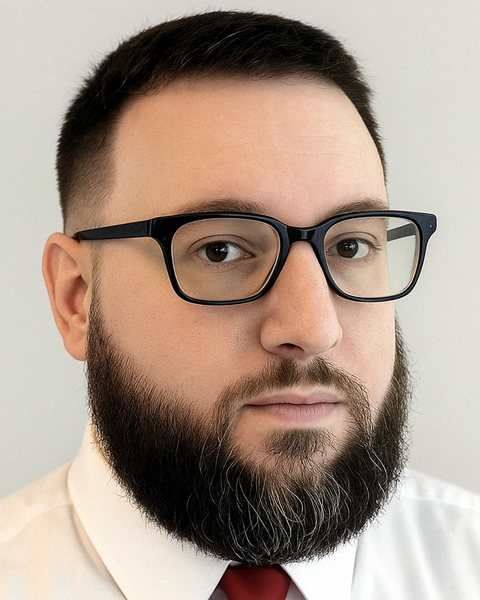
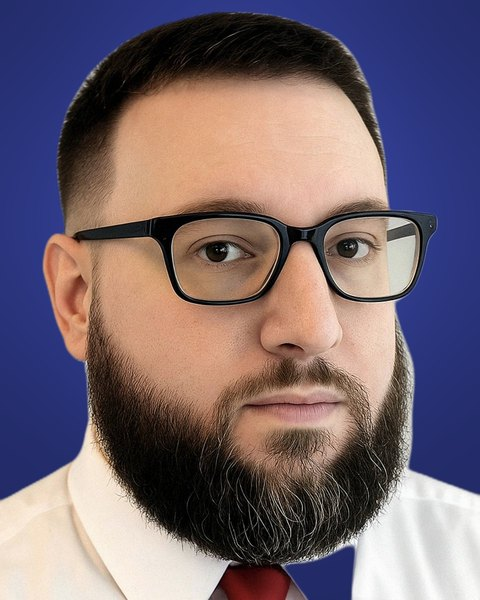
Readability, section bands, consistent blues, new portrait
- Brighter muted/faint text and heavier body weight for dark mode
- Tighter type scale; nothing below 12px; 62ch line measure
- Alternate canvas/band section backgrounds for subtle separation
- Step numbers as cobalt badges matching the logo tile
- Portrait cut out of its gray box onto a deep cobalt backdrop
- Update DESIGN.md tokens, type table and components

Claude-Session: https://claude.ai/code/session_019WZUXEZ8qBTe2kG3M1TBCv

Changed region(s): [[0.0, 0.0, 1.0, 0.84], [0.5938, 0.9, 0.75, 1.0]]

diff --git a/assets/css/site.css b/assets/css/site.css
@@ -2,16 +2,21 @@
 @font-face { font-family: Archivo; src:url('../fonts/archivo-latin-variable.woff2') format('woff2'); font-style:normal; font-weight:100 900; font-display:swap; }
 :root {
   color-scheme:dark;
-  --canvas:#171721; --card:#1e1e2a; --raised:#272735;
-  --text:#ededf3; --muted:#c3c3cc; --faint:#9696a3;
-  --cobalt:#5266eb; --cobalt-text:#8f9cf5;
-  --radius-sm:4px; --radius-card:12px; --radius-pill:32px;
+  /* Surfaces: canvas and band alternate by section; cards sit one step above their section. */
+  --canvas:#15151d; --band:#1c1c27;
+  --card:#1f1f2b; --card-on-band:#262633;
+  /* Text: all pass WCAG AA on every surface; muted and faint brightened for dark-mode legibility. */
+  --text:#f2f2f6; --muted:#d0d0d9; --faint:#a9a9b7;
+  /* One blue family, matching the logo: tile cobalt for fills, logo "PUSHBACK" tint for text. */
+  --cobalt:#5266eb; --cobalt-text:#8f9cf5; --cobalt-deep:#222a66;
+  --radius-sm:4px; --radius-badge:8px; --radius-card:14px; --radius-photo:24px; --radius-pill:32px;
   --max:1200px; --gutter:clamp(24px,5vw,64px);
-  --section:clamp(72px,8vw,112px); --card-pad:32px; --gap:12px;
+  --section:clamp(72px,8vw,112px); --card-pad:32px; --gap:14px;
+  --measure:62ch;
 }
 *,*::before,*::after {box-sizing:border-box}
 html{scroll-behavior:smooth;-webkit-text-size-adjust:100%;background:var(--canvas)}
-body{margin:0;background:var(--canvas);color:var(--text);font:400 18px/1.58 'Archivo','Helvetica Neue',Arial,sans-serif;-webkit-font-smoothing:antialiased}
+body{margin:0;background:var(--canvas);color:var(--text);font:430 18px/1.6 'Archivo','Helvetica Neue',Arial,sans-serif;-webkit-font-smoothing:antialiased}
 a{color:var(--cobalt-text);text-decoration-thickness:1px;text-underline-offset:4px}
 img{display:block;max-width:100%}
 :focus-visible{outline:2px solid var(--cobalt-text);outline-offset:4px;border-radius:var(--radius-sm)}
@@ -19,99 +24,104 @@ img{display:block;max-width:100%}
 .skip-link{position:absolute;left:-100vw;top:0;z-index:5;background:var(--cobalt);color:#fff;padding:12px 18px;border-radius:var(--radius-pill)}
 .skip-link:focus{left:12px;top:12px}
 
+/* Header */
 .header-inner{height:84px;display:flex;align-items:center;justify-content:space-between;gap:24px}
 .wordmark{display:block;line-height:0;flex:0 0 auto}
 .wordmark img{height:36px;width:auto}
-.principle{font-size:14px;font-weight:500;letter-spacing:.02em;margin:0;color:var(--muted)}
+.principle{font-size:15px;font-weight:500;letter-spacing:.01em;margin:0;color:var(--muted)}
 .header-principle{text-align:right}
 
-.hero{overflow:hidden}
-.hero-grid{display:grid;grid-template-columns:minmax(0,1.25fr) minmax(290px,.82fr);gap:clamp(30px,6vw,90px);align-items:center;padding-top:clamp(40px,5vw,72px);padding-bottom:var(--section)}
-h1{font-size:clamp(52px,5.4vw,80px);line-height:1.02;letter-spacing:-.05em;font-weight:520;max-width:750px;margin:0 0 32px}
-h1 em{font-style:normal;color:var(--cobalt-text)}
-.hero-lede{max-width:600px;font-size:clamp(19px,1.5vw,21px);line-height:1.55;letter-spacing:-.01em;color:var(--muted);margin:0}
-.hero-person{margin:0;min-width:0;background:var(--card);border-radius:var(--radius-card);padding:12px 12px 0;overflow:hidden}
-.hero-person picture{display:block;width:100%}
-.hero-person img{width:100%;height:auto;aspect-ratio:4/5;object-fit:cover;border-radius:8px}
-.hero-person figcaption{display:flex;flex-wrap:wrap;align-items:baseline;justify-content:space-between;gap:4px 18px;padding:18px 8px 20px;line-height:1.4;font-size:14px}
-.hero-person figcaption strong{font-size:16px;font-weight:600;letter-spacing:-.01em}
-.hero-person figcaption .caption-role{color:var(--faint);text-transform:uppercase;font-size:12px;font-weight:600;letter-spacing:.16em;line-height:1.5}
-
+/* Sections alternate canvas and band so each one reads as its own block. */
 .section-block{padding:var(--section) 0}
-.questions{padding-top:0}
-.process{padding-top:0}
+.band{background:var(--band)}
+
+/* Hero */
+.hero{overflow:hidden}
+.hero-grid{display:grid;grid-template-columns:minmax(0,1.3fr) minmax(280px,.75fr);gap:clamp(36px,6vw,96px);align-items:center;padding-top:clamp(32px,4vw,56px);padding-bottom:var(--section)}
+h1{font-size:clamp(50px,5.2vw,76px);line-height:1.03;letter-spacing:-.045em;font-weight:540;max-width:720px;margin:0 0 28px}
+h1 em{font-style:normal;color:var(--cobalt-text)}
+.hero-lede{max-width:34em;font-size:clamp(19px,1.45vw,21px);line-height:1.6;color:var(--muted);margin:0}
+.hero-person{margin:0;min-width:0;max-width:400px;justify-self:end;width:100%}
+.hero-person picture{display:block;width:100%}
+.hero-person img{width:100%;height:auto;aspect-ratio:4/5;object-fit:cover;border-radius:var(--radius-photo);background:var(--cobalt-deep)}
+.hero-person figcaption{padding:18px 4px 0;line-height:1.4}
+.hero-person figcaption strong{display:block;font-size:18px;font-weight:600;letter-spacing:-.01em}
+.hero-person figcaption .caption-role{display:block;margin-top:6px;color:var(--faint);text-transform:uppercase;font-size:13px;font-weight:600;letter-spacing:.14em}
+
+/* Shared type */
 .section-heading{margin-bottom:40px}
-h2{font-weight:520;letter-spacing:-.045em;line-height:1.1;font-size:clamp(32px,3.4vw,48px);margin:0}
-h3{font-size:21px;font-weight:600;letter-spacing:-.02em;line-height:1.25;margin:0 0 12px}
-.number{font-variant-numeric:tabular-nums;font-size:13px;font-weight:600;color:var(--cobalt-text)}
+h2{font-weight:540;letter-spacing:-.04em;line-height:1.1;font-size:clamp(32px,3.3vw,46px);margin:0}
+h3{font-size:22px;font-weight:620;letter-spacing:-.02em;line-height:1.25;margin:0 0 10px}
+/* Step number: a small cobalt tile, echoing the logo mark. */
+.number{display:inline-flex;align-items:center;justify-content:center;width:32px;height:32px;border-radius:var(--radius-badge);background:var(--cobalt);color:#fff;font-size:13px;font-weight:650;font-variant-numeric:tabular-nums;letter-spacing:0}
 
+/* Three questions (on the band) */
 .question-grid{display:grid;grid-template-columns:repeat(3,minmax(0,1fr));column-gap:var(--gap);row-gap:0}
-.question{background:var(--card);border-radius:var(--radius-card);padding:var(--card-pad);display:grid;grid-row:span 3;grid-template-rows:subgrid;row-gap:0;align-content:start}
-.question .number{display:block;margin-bottom:32px}
-.question p{font-size:17px;line-height:1.6;color:var(--muted);margin:0}
+.question{background:var(--card-on-band);border-radius:var(--radius-card);padding:var(--card-pad);display:grid;grid-row:span 3;grid-template-rows:subgrid;row-gap:0;align-content:start}
+.question .number{margin-bottom:24px}
+.question p{font-size:18px;line-height:1.6;color:var(--muted);margin:0}
 
-.split-layout{display:grid;grid-template-columns:minmax(0,340px) minmax(0,1fr);gap:clamp(48px,7vw,110px)}
-.split-heading h2{max-width:340px}
-.split-heading>p:last-child{font-size:17px;line-height:1.6;color:var(--muted);max-width:315px;margin-top:22px}
+/* Process (on the canvas) */
+.split-layout{display:grid;grid-template-columns:minmax(0,320px) minmax(0,1fr);gap:clamp(48px,7vw,104px)}
+.split-heading h2{max-width:320px}
+.split-heading>p:last-child{font-size:18px;line-height:1.6;color:var(--muted);max-width:300px;margin:20px 0 0}
 .process-list{padding:0;margin:0;list-style:none;display:grid;gap:var(--gap)}
-.process-list li{display:grid;grid-template-columns:40px minmax(0,1fr);gap:20px;background:var(--card);border-radius:var(--radius-card);padding:28px var(--card-pad)}
-.process-list .number{padding-top:4px}
-.process-list h3{font-size:20px;margin:0 0 8px}
-.process-list p{margin:0;max-width:570px;font-size:17px;line-height:1.55;color:var(--muted)}
+.process-list li{display:grid;grid-template-columns:32px minmax(0,1fr);gap:22px;background:var(--card);border-radius:var(--radius-card);padding:28px var(--card-pad)}
+.process-list h3{font-size:21px;margin:3px 0 8px}
+.process-list p{margin:0;max-width:var(--measure);font-size:18px;line-height:1.6;color:var(--muted)}
 
-.closed-section{padding:0 0 var(--section)}
-.closed-grid{display:grid;grid-template-columns:minmax(0,340px) minmax(0,1fr);gap:clamp(48px,7vw,110px);align-items:center;background:var(--raised);border-radius:var(--radius-card);padding:56px clamp(28px,4vw,56px)}
-.closed-section h2{font-size:clamp(34px,4vw,56px)}
-.closed-section p{font-size:18px;color:var(--muted);max-width:620px;margin:0;line-height:1.65}
+/* Closure notice (on the band) */
+.closed-grid{display:grid;grid-template-columns:minmax(0,320px) minmax(0,1fr);gap:clamp(48px,7vw,104px);align-items:center}
+.closed-section h2{font-size:clamp(32px,3.3vw,46px)}
+.closed-section p{font-size:19px;color:var(--muted);max-width:var(--measure);margin:0;line-height:1.6}
 
-.footer{padding:0 0 28px}
-.footer-inner{display:flex;flex-direction:column;gap:6px}
-.footer p{margin:0;color:var(--faint);font-size:13px;line-height:1.6;max-width:1100px}
-.footer .copyright{font-size:12px}
+/* Footer */
+.footer{padding:40px 0 36px}
+.footer-inner{display:flex;flex-direction:column;gap:10px}
+.footer p{margin:0;color:var(--faint);font-size:14px;line-height:1.6;max-width:80ch}
+.footer .copyright{font-size:13px}
 .hero-copy{padding:clamp(32px,6vw,72px) 0}
 
 @media(max-width:1000px){
- .hero-grid{grid-template-columns:minmax(0,1.2fr) minmax(240px,.8fr);gap:36px}
- h1{font-size:clamp(48px,6vw,66px)}
- .split-layout,.closed-grid{grid-template-columns:minmax(0,250px) minmax(0,1fr);gap:40px}
+ .hero-grid{grid-template-columns:minmax(0,1.2fr) minmax(220px,.8fr);gap:36px}
+ h1{font-size:clamp(46px,6vw,62px)}
+ .split-layout,.closed-grid{grid-template-columns:minmax(0,240px) minmax(0,1fr);gap:40px}
  .question-grid{grid-template-columns:1fr;row-gap:var(--gap)}
- .question{grid-row:auto;grid-template-rows:none;grid-template-columns:44px minmax(0,1fr) minmax(0,1.5fr);column-gap:24px;align-items:baseline;padding:26px}
+ .question{grid-row:auto;grid-template-rows:none;grid-template-columns:32px minmax(0,1fr) minmax(0,1.5fr);column-gap:24px;align-items:start;padding:26px}
  .question .number{margin:0}
- .question h3{margin:0}
+ .question h3{margin:3px 0 0}
 }
 @media(max-width:720px){
- :root{--gutter:20px;--card-pad:22px;--section:56px}
- body{font-size:16px}
+ :root{--gutter:20px;--card-pad:22px;--section:56px;--gap:12px}
+ body{font-size:17px}
  .header-inner{height:66px}
  .wordmark img{height:28px}
- .header-principle{font-size:12px;line-height:1.3;max-width:15em}
- .hero-grid{display:block;padding-top:36px;padding-bottom:var(--section)}
- h1{font-size:clamp(42px,11vw,64px);line-height:1.04;margin-bottom:22px}
- .hero-lede{font-size:17px}
- .hero-person{display:flex;gap:16px;align-items:center;padding:12px;margin-top:32px}
- .hero-person picture{width:84px;flex:0 0 84px}
- .hero-person img{width:84px;height:100px;aspect-ratio:auto;object-position:50% 17%}
- .hero-person figcaption{display:block;flex:1;min-width:0;padding:0;font-size:13px}
- .hero-person figcaption strong,.hero-person figcaption span{display:block}
- .hero-person figcaption strong{font-size:17px}
- .hero-person figcaption .caption-role{margin-top:4px;font-size:11px;letter-spacing:.13em}
+ .header-principle{font-size:13px;line-height:1.3;max-width:13em}
+ .hero-grid{display:block;padding-top:28px;padding-bottom:var(--section)}
+ h1{font-size:clamp(40px,11vw,60px);line-height:1.05;margin-bottom:20px}
+ .hero-lede{font-size:18px}
+ .hero-person{display:flex;gap:16px;align-items:center;max-width:none;margin-top:32px}
+ .hero-person picture{width:88px;flex:0 0 88px}
+ .hero-person img{width:88px;height:88px;aspect-ratio:auto;object-position:50% 20%;border-radius:18px}
+ .hero-person figcaption{flex:1;min-width:0;padding:0}
+ .hero-person figcaption strong{font-size:18px}
+ .hero-person figcaption .caption-role{font-size:12px;letter-spacing:.12em}
  .section-heading{margin-bottom:24px}
- h2{font-size:clamp(30px,8vw,40px)}
- .question-grid{grid-template-columns:1fr;gap:var(--gap)}
+ h2,.closed-section h2{font-size:clamp(30px,8vw,38px)}
+ h3{font-size:20px}
  .question{display:block}
- .question .number{margin-bottom:14px}
- .question h3{font-size:20px;margin-bottom:8px}
- .question p{font-size:16px}
+ .question .number{margin-bottom:16px}
+ .question h3{margin:0 0 8px}
+ .question p,.process-list p,.split-heading>p:last-child{font-size:17px}
  .split-layout,.closed-grid{display:block}
  .split-heading{margin-bottom:24px}
- .split-heading>p:last-child{font-size:16px;margin:14px 0 0}
- .process-list li{grid-template-columns:30px 1fr;gap:14px;padding:22px}
- .process-list h3{font-size:19px}
- .process-list p{font-size:16px}
- .closed-grid{padding:36px 24px}
- .closed-section h2{font-size:clamp(30px,8.5vw,42px);margin-bottom:14px}
- .closed-section p{font-size:16px}
- .footer p{font-size:12px}
+ .split-heading>p:last-child{margin-top:12px;max-width:none}
+ .process-list li{grid-template-columns:32px 1fr;gap:16px;padding:22px}
+ .process-list h3{font-size:20px}
+ .closed-section h2{margin-bottom:14px}
+ .closed-section p{font-size:17px}
+ .footer{padding:32px 0 28px}
+ .footer p{font-size:13px}
 }
 @media(max-width:360px){:root{--gutter:16px}.wordmark img{height:24px}}
 @media(prefers-reduced-motion:reduce){html{scroll-behavior:auto}}

diff --git a/index.html b/index.html
@@ -17,7 +17,7 @@
 <link rel="icon" href="favicon.svg?v=3" type="image/svg+xml">
 <link rel="apple-touch-icon" href="assets/img/brand/apple-touch-icon.png?v=3">
 <link rel="preload" href="assets/fonts/archivo-latin-variable.woff2" as="font" type="font/woff2" crossorigin>
-<link rel="stylesheet" href="assets/css/site.css?v=20261029g">
+<link rel="stylesheet" href="assets/css/site.css?v=20261029h">
 </head>
 <body>
 <a class="skip-link" href="#main">Skip to content</a>
@@ -36,15 +36,15 @@
       </div>
       <figure class="hero-person">
         <picture>
-          <source type="image/webp" srcset="assets/img/ryan-pascal-480.webp 480w, assets/img/ryan-pascal.webp 960w" sizes="(max-width: 720px) 110px, 420px">
-          <img src="assets/img/ryan-pascal-480.jpg" srcset="assets/img/ryan-pascal-480.jpg 480w, assets/img/ryan-pascal.jpg 960w" sizes="(max-width: 720px) 110px, 420px" width="480" height="600" alt="Ryan Pascal" decoding="async" fetchpriority="high">
+          <source type="image/webp" srcset="assets/img/ryan-pascal-480.webp?v=2 480w, assets/img/ryan-pascal.webp?v=2 960w" sizes="(max-width: 720px) 88px, 400px">
+          <img src="assets/img/ryan-pascal-480.jpg?v=2" srcset="assets/img/ryan-pascal-480.jpg?v=2 480w, assets/img/ryan-pascal.jpg?v=2 960w" sizes="(max-width: 720px) 88px, 400px" width="480" height="600" alt="Ryan Pascal" decoding="async" fetchpriority="high">
         </picture>
         <figcaption><strong>Ryan Pascal</strong><span class="caption-role">Research · Logistics · Outreach</span></figcaption>
       </figure>
     </div>
   </section>
 
-  <section id="approach" class="questions section-block" aria-labelledby="questions-title">
+  <section id="approach" class="questions section-block band" aria-labelledby="questions-title">
     <div class="shell">
       <div class="section-heading"><h2 id="questions-title">Three questions. Three different answers.</h2></div>
       <div class="question-grid">
@@ -69,7 +69,7 @@
 
 
 
-  <section class="closed-section" aria-labelledby="closed-title">
+  <section class="closed-section section-block band" aria-labelledby="closed-title">
     <div class="shell"><div class="closed-grid">
       <h2 id="closed-title">Closed to new requests.</h2>
       <p>Dealer Pushback is unpaid volunteer work, not a vocation. I'm finishing existing commitments, and won't reopen.</p>

diff --git a/404.html b/404.html
@@ -8,7 +8,7 @@
 <meta name="robots" content="noindex">
 <meta name="theme-color" content="#171721">
 <link rel="icon" href="/favicon.svg?v=3" type="image/svg+xml">
-<link rel="stylesheet" href="/assets/css/site.css?v=20261029g">
+<link rel="stylesheet" href="/assets/css/site.css?v=20261029h">
 </head>
 <body>
 <a class="skip-link" href="#main">Skip to content</a>

diff --git a/DESIGN.md b/DESIGN.md
@@ -13,44 +13,51 @@ Based on the Mercury style from Refero Styles, adapted for a static site on Pork
 
 | Token | Hex | Use |
 |---|---|---|
-| `--canvas` | `#171721` | Page background |
-| `--card` | `#1e1e2a` | Cards, photo frame |
-| `--raised` | `#272735` | The one emphasized block (closure notice) |
-| `--text` | `#ededf3` | Headings, primary text |
-| `--muted` | `#c3c3cc` | Body copy, lede, header tagline |
-| `--faint` | `#9696a3` | Eyebrow labels, caption role, footer |
-| `--cobalt` | `#5266eb` | Filled accents (skip link) |
-| `--cobalt-text` | `#8f9cf5` | Cobalt for text on dark: hero accent, numbers, links |
+| `--canvas` | `#15151d` | Page background; hero, process and footer sections |
+| `--band` | `#1c1c27` | Alternating section background (questions, closure notice) so sections separate without lines |
+| `--card` | `#1f1f2b` | Cards on the canvas |
+| `--card-on-band` | `#262633` | Cards on a band, one step lighter |
+| `--text` | `#f2f2f6` | Headings, primary text |
+| `--muted` | `#d0d0d9` | Body copy, lede, tagline (9:1+ on every surface) |
+| `--faint` | `#a9a9b7` | Caption role, footer (6:1+ on every surface) |
+| `--cobalt` | `#5266eb` | Fills: logo tile, step-number badges, skip link |
+| `--cobalt-text` | `#8f9cf5` | Blue text on dark: hero accent, links. Same tint as "PUSHBACK" in the logo |
+| `--cobalt-deep` | `#222a66` | Portrait backdrop |
+
+Blue appears in exactly two shades, both taken from the logo. No other hues.
 
 ## Type
 
-One family: **Archivo** variable, self-hosted at `assets/fonts/archivo-latin-variable.woff2`. (Mercury's own face, Arcadia, isn't licensed for us. Archivo at medium weights carries the same calm feel.)
+One family: **Archivo** variable, self-hosted at `assets/fonts/archivo-latin-variable.woff2`. Body text is weight 430, slightly heavier than regular, because thin strokes fade on dark backgrounds.
 
 | Role | Size | Weight | Tracking |
 |---|---|---|---|
-| H1 | 52–80px fluid | 520 | -0.05em |
-| H2 | 32–48px fluid | 520 | -0.045em |
-| H3 | 20–21px | 600 | -0.02em |
-| Lede | 19–21px | 400 | -0.01em |
-| Body | 17px (16px mobile) | 400 | 0 |
-| Eyebrow / role | 12px uppercase | 600 | 0.16em |
-| Number | 13px tabular | 600 | 0 |
+| H1 | 50–76px fluid (40–60 phone) | 540 | -0.045em |
+| H2 | 32–46px fluid (30–38 phone) | 540 | -0.04em |
+| H3 | 21–22px (20 phone) | 620 | -0.02em |
+| Lede | 19–21px (18 phone) | 430 | 0 |
+| Body | 18px (17px phone) | 430 | 0 |
+| Caption role | 13px uppercase | 600 | 0.14em |
+| Footer | 14px (13px phone) | 430 | 0 |
+| Step number | 13px in a 32px cobalt badge | 650 | 0 |
 
-Headlines stay medium weight. Don't go back to 700+ heavy display type.
+Nothing on the page is smaller than 12px. Body paragraphs cap at 62 characters per line (`--measure`).
 
 ## Space and shape
 
 - Max width `1200px`, gutter 24–64px fluid (20px on phones).
 - Section rhythm `--section`: 72–112px fluid (56px on phones). Stacked sections share one gap, not two.
 - Card padding `--card-pad`: 32px (22px on phones). Gap between cards `--gap`: 12px.
-- Radius: `--radius-card` 12px for cards and blocks, 8px for the photo, `--radius-pill` 32px for buttons and the skip link, `--radius-sm` 4px for focus rings.
+- Radius: `--radius-card` 14px for cards, `--radius-photo` 24px for the portrait, `--radius-badge` 8px for number tiles, `--radius-pill` 32px for the skip link, `--radius-sm` 4px for focus rings.
 
 ## Components
 
-- **Card:** `--card` fill, 12px radius, no border. Used for the three questions, the process steps and the photo frame.
+- **Sections:** alternate `--canvas` and `--band` backgrounds (hero canvas, questions band, process canvas, closure band). This is the only section separator.
+- **Card:** `--card` (or `--card-on-band`) fill, 14px radius, no border. Used for the three questions and the process steps.
+- **Portrait:** cut out from its original background and placed on `--cobalt-deep` with a soft lighter glow behind the head. 24px radius, no frame. Square crop with 18px radius on phones.
+- **Step number:** 32px cobalt tile with a white number, echoing the logo mark.
 - **Question cards:** a three-column grid using subgrid, so numbers, headings and answers start on the same line in every card. Keep answers about the same length.
 - **Process step:** card with the number in a 40px left column.
-- **Emphasis block:** `--raised` fill, 12px radius, inside the page width. Only one per page.
 - **Header:** wordmark left, tagline right, no bar or border.
 - **Footer:** plain text in `--faint` on the canvas.
 
